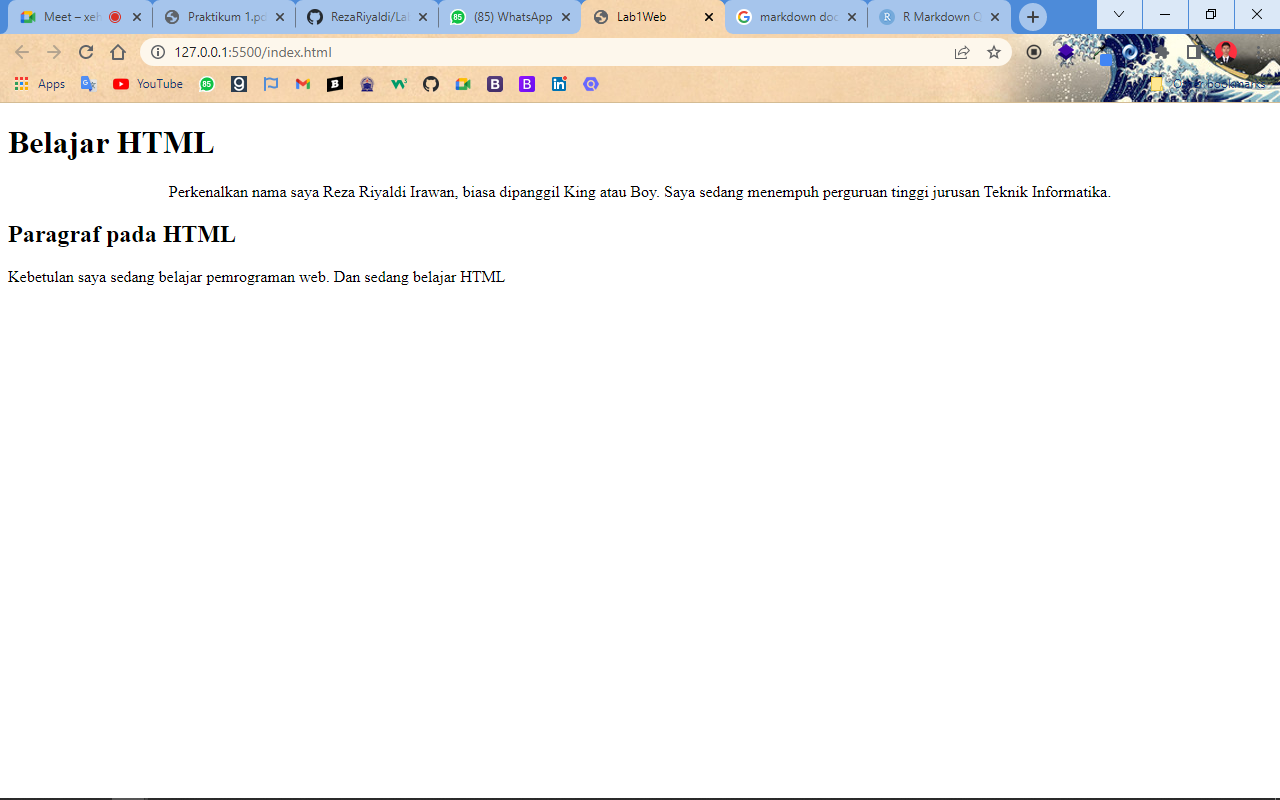
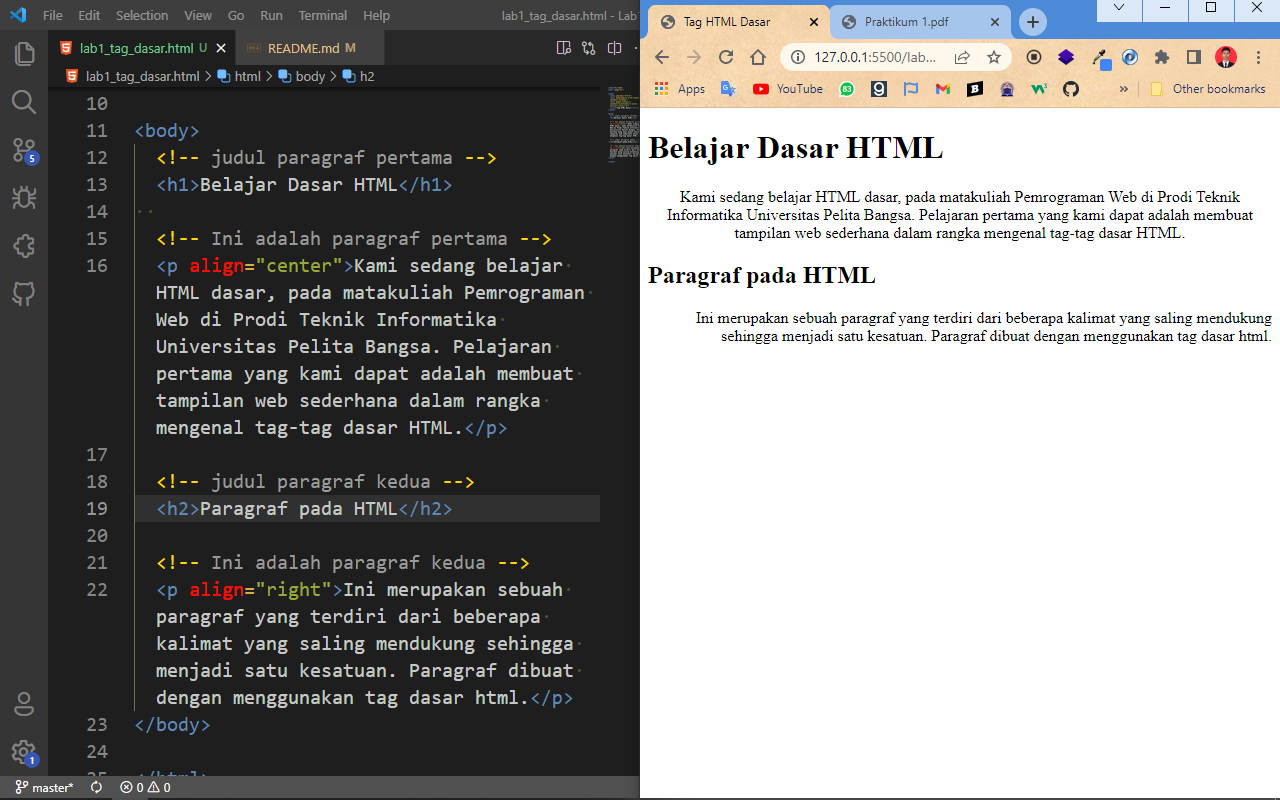
Upload jawaban

diff --git a/lab1_tag_dasar.html b/lab1_tag_dasar.html
@@ -1,0 +1,43 @@
+<!DOCTYPE html>
+<html lang="en">
+
+<head>
+  <meta charset="UTF-8">
+  <meta http-equiv="X-UA-Compatible" content="IE=edge">
+  <meta name="viewport" content="width=device-width, initial-scale=1.0">
+  <title>Tag HTML Dasar</title>
+</head>
+
+<body>
+  <!-- menambahkan link navigasi -->
+  <nav>
+    <a href="lab1_tag_dasar.html">Dasar HTML</a>
+    <a href="lab1_halaman2.html">Halaman 2</a>
+    <a href="https://github.com/RezaRiyaldi">My Repository</a>
+  </nav>
+  <hr>
+  
+  <!-- judul paragraf pertama -->
+  <h1>Belajar Dasar HTML</h1>
+
+  <!-- Ini adalah paragraf pertama -->
+  <p align="center">Kami sedang belajar <span style="background-color: yellow;">HTML dasar</span>, pada matakuliah
+    <b>Pemrograman Web</b> di Prodi <i>Teknik Informatika</i> <u>Universitas Pelita Bangsa</u>. Pelajaran pertama yang
+    kami dapat adalah membuat tampilan web sederhana dalam rangka mengenal tag-tag dasar HTML.
+  </p>
+
+  <!-- judul paragraf kedua -->
+  <h2>Paragraf pada HTML</h2>
+
+  <!-- Ini adalah paragraf kedua -->
+  <p align="right">Ini merupakan sebuah paragraf yang terdiri dari beberapa kalimat yang saling mendukung sehingga
+    menjadi satu kesatuan. Paragraf dibuat dengan menggunakan tag dasar html.</p>
+
+  <!-- sub judul paragraf -->
+  <h3>Menambahkan Gambar</h3>
+
+  <!-- menambahkan gambar pada dokumen -->
+  <img src="img/profile.png" title="Gambar Profile">
+</body>
+
+</html>

diff --git a/lab1_halaman2.html b/lab1_halaman2.html
@@ -1,0 +1,22 @@
+<!DOCTYPE html>
+<html lang="en">
+<head>
+  <meta charset="UTF-8">
+  <meta http-equiv="X-UA-Compatible" content="IE=edge">
+  <meta name="viewport" content="width=device-width, initial-scale=1.0">
+  <title>Halaman 2</title>
+</head>
+<body>
+  <!-- menambahkan link navigasi -->
+  <nav>
+    <a href="lab1_tag_dasar.html">Dasar HTML</a>
+    <a href="lab1_halaman2.html">Halaman 2</a>
+    <a href="https://github.com/RezaRiyaldi">My Repository</a>
+  </nav>
+  <hr>
+
+  <h1>Selamat datang</h1>
+  <h2>Ini adalah halaman 2</h2>
+  <p>Lorem ipsum dolor sit amet consectetur, adipisicing elit. Itaque aut velit alias, labore, voluptate, consectetur mollitia magni modi minima quam odio vitae. Molestias unde officia quos fugit magnam dolore, quisquam minus deleniti impedit pariatur sit repudiandae, quo repellendus illo consequatur temporibus, aliquid eaque provident minima! Ut iusto velit laboriosam dolores?</p>
+</body>
+</html>

diff --git a/README.md b/README.md
@@ -1,16 +1,155 @@
 # Tugas LAB 1 Web
-## Paragraf
+## Profil
+| # | Biodata |
+| -------- | --- |
+| **Nama** | Reza Riyaldi Irawan |
+| **NIM** | 312010284 |
+| **Kelas** | TI.20.A.2 |
+| **Mata Kuliah** | Pemrograman Web |
 
+## Langkah 1
+* Buka Text Editor dan buat file HTML baru dengan nama file `lab1_tag_dasar.html`.
+
+* Buat struktur HTML
+```html
+<!DOCTYPE html>
+<html lang="en">
+<head>
+  <meta charset="UTF-8">
+  <meta http-equiv="X-UA-Compatible" content="IE=edge">
+  <meta name="viewport" content="width=device-width, initial-scale=1.0">
+  <title>Tag HTML Dasar</title>
+</head>
+<body>
+  
+</body>
+</html>
+
+```
+* Maka hasilnya akan seperti berikut.
+![struktur](img/ss_struktur_html.png)
+
+## Langkah 2
+* Membuat 2 paragraf dan menambah atribut disetiap paragraf.
+```html
+<!-- Ini adalah paragraf pertama -->
+<p align="center">Kami sedang belajar HTML dasar, pada matakuliah Pemrograman Web di Prodi Teknik Informatika Universitas Pelita Bangsa. Pelajaran pertama yang kami dapat adalah membuat tampilan web sederhana dalam rangka mengenal tag-tag dasar HTML.</p>
+
+<!-- Ini adalah paragraf kedua -->
+<p align="right">Ini merupakan sebuah paragraf yang terdiri dari beberapa kalimat yang saling mendukung sehingga menjadi satu kesatuan. Paragraf dibuat dengan menggunakan tag dasar html.</p>
+```
+
+* Maka hasilnya akan seperti berikut.
 ![paragraf](img/ss_paragraf.png)
 
-## Heading
+## Langkah 3
+* Menambahkan judul
+```html
+<!-- judul paragraf pertama -->
+<h1>Belajar Dasar HTML</h1>
 
+<!-- judul paragraf kedua -->
+<h2>Paragraf pada HTML</h2>
+```
+
+* Maka hasilnya akan seperti berikut.
 ![heading](img/ss_heading.png)
 
-## Format Text
+## Langkah 4
+* Memformat Teks
 
+| Tag | Fungsi |
+| -------- | --- |
+| `<span style="background-color: yellow;>` | Menyisipkan sesuatu yang khusus, lalu atribut style menambahkan style pada sesuatu tersebut. |
+| `<b>` | Membuat teks **bold** |
+| `<i>` | Membuat teks _italic_ |
+| `<u>` | Membuat teks underline |
+
+* Maka hasilnya akan seperti berikut.
 ![format_text](img/ss_formattext.png)
 
-## Image
+## Langkah 5
+* Menyisipkan Gambar
+```html
+<!-- sub judul paragraf -->
+<h3>Menambahkan Gambar</h3>
 
+<!-- menambahkan gambar pada dokumen -->
+<img src="img/profile.png" title="Gambar Profile">
+```
+
+* Maka hasilnya akan seperti berikut.
 ![image](img/ss_gambar.png)
+
+## Langkah 6
+* Menambahkan _hyperlink_
+```html
+<!-- menambahkan link navigasi -->
+<nav>
+  <a href="lab1_tag_dasar.html">Dasar HTML</a>
+  <a href="lab1_halaman2.html">Halaman 2</a>
+  <a href="https://github.com/RezaRiyaldi">My Repository</a>
+</nav>
+<hr>
+```
+  * Maka hasilnya akan seperti berikut.
+  ![hyperlink1](img/ss_hyperlink1.png)
+
+  * Lalu kita buat `lab1_halaman2.html`.
+
+  ```html
+<!DOCTYPE html>
+<html lang="en">
+<head>
+  <meta charset="UTF-8">
+  <meta http-equiv="X-UA-Compatible" content="IE=edge">
+  <meta name="viewport" content="width=device-width, initial-scale=1.0">
+  <title>Halaman 2</title>
+</head>
+<body>
+  <!-- menambahkan link navigasi -->
+  <nav>
+    <a href="lab1_tag_dasar.html">Dasar HTML</a>
+    <a href="lab1_halaman2.html">Halaman 2</a>
+    <a href="https://github.com/RezaRiyaldi">My Repository</a>
+  </nav>
+  <hr>
+
+  <h1>Selamat datang</h1>
+  <h2>Ini adalah halaman 2</h2>
+  <p>Lorem ipsum dolor sit amet consectetur, adipisicing elit. Itaque aut velit alias, labore, voluptate, consectetur mollitia magni modi minima quam odio vitae. Molestias unde officia quos fugit magnam dolore, quisquam minus deleniti impedit pariatur sit repudiandae, quo repellendus illo consequatur temporibus, aliquid eaque provident minima! Ut iusto velit laboriosam dolores?</p>
+</body>
+</html>
+  ```
+
+  * Maka hasilnya akan seperti berikut.
+  ![hyperlink2](img/ss_hyperlink2.png)
+
+
+## Jawab pertanyaan
+1. Lakukan perubahan pada kode sesuai dengan keinginan anda, amati perubahannya adakah error ketika terjadi kesalahan penulisan tag?
+> Saya melakukan perubahan dari `<p>` menjadi `<P>`, tidak ada yang berubah dan jalan seperti biasa di browser.
+
+2. Apa perbedaan dari tag `<p>` dengan tag `<br>`, berikan penjelasannya!
+> `<p>` mendefisikan teks sebagai paragraf.
+
+> `<br>` membuat baris baru atau _breakline_.
+
+3. Apa perbedaan atribut _title_ dan _alt_ pada tag `<img>`, berikan penjelasannya!
+
+> `title` berfungsi apabila gambar dihover maka akan keluar teks title. Ini juga berlaku untuk elemen lain yang ditambahkan atribut `title`.
+
+> `alt` berfungsi apabila gambar gagal diload karena gambar hilang atau penulisan src salah, maka alt akan ditampilkan.
+
+4. Untuk mengatur ukuran gambar, digunakan atribut _width_ dan _height_. Agar tampilan gambar proporsional sebaiknya kedua atribut tersebut diisi semua atau tidak? Berikan penjelasannya!
+
+> Sebaiknya salah satu saja, _width_ atau _height_. Karena apabila diisi keduanya gambar akan gepeng atau tidak sesuai dengan skala aslinya. Namun jika salah misalnya _width_ saja maka _height_-nya mengikuti skala.
+
+5. Pada link tambahkan atribut target dengan nilai atribut bervariasi ( _blank, _self, _top, _parent), apa yang terjadi pada masing-masing nilai antribut tersebut?
+
+| Atribut | Fungsi |
+| -------- | --- |
+| `_self` | Membuka dokumen tertaut dalam bingkai yang sama dengan yang diklik (ini default) |
+| `_blank` | Membuka dokumen tertaut di jendela atau tab baru. |
+| `_top` | Membuka dokumen tertaut di seluruh body dari jendela |
+| `_parent` | Membuka dokumen tertaut di bingkai induk |
